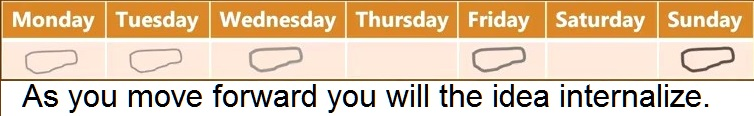
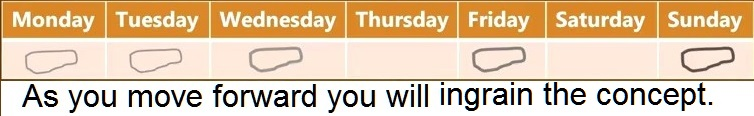
spaced repetition final edit

Changed region(s): [[0.5796, 0.6983, 0.9456, 0.9569]]

diff --git a/_posts/2016-09-06-spaced-repetition.md b/_posts/2016-09-06-spaced-repetition.md
@@ -8,15 +8,18 @@ tags:
   - Learning-Style
 ---
 
-Everybody is learning something fresh everyday. The moment that we realize something is the pleasant "ahha" instant that we succeed to connect the dots and assimilate the concept. Our careless mind believes that understanding will last forever, although the in next couple of days the idea is already stolen by our brain zombies (zombie is a term coined in Learn How to Learn course). The more time interval between the review of the concept the more susceptible to completely forget it. This incur loss of our time, energy and ultimately efficiency. 
+Everybody is learning something fresh everyday. The moment that we realize something is the pleasant "ahha" instant that we succeed to connect the dots and assimilate the concept. Our careless mind believes that understanding will last forever, although in the next couple of days the idea is already stolen by our brain zombies (zombie is a term coined in Learn How to Learn course). The more time interval between the review of the concept the more susceptible to completely forget it. This incur loss of our time, energy and ultimately efficiency. 
 
 ## Spaced Repetition
-Intuitively people may think they will ingrain and internalize the concept by just repeatedly reading the text at the same time. However our brain doesn't work like this. In this post I will describe a learning technique called "spaced repetition"; a scientificly proved technique to send information from our short-term memory to the every lasting long-term memory. The notion of spaced repetition tells to incrementally increase the time between reviews of the concept. For example see this image from [Learn How to Learn online course](https://www.coursera.org/learn/learning-how-to-learn/):
+Intuitively people may think they will ingrain and internalize the concept by just repeatedly reading the text in the same session. However our brain doesn't function in this manner. In this post I will describe a learning technique called "spaced repetition"; a scientific proven technique to send information from our short-term memory to the ever lasting long-term memory. The notion of spaced repetition tells to incrementally increase the time between reviews of the concept. For example see this image from [Learn How to Learn online course](https://www.coursera.org/learn/learning-how-to-learn/):
 
 ![spaced repetition]({{base_path}}/images/Rmarkdown_files/spaced_repetition.jpg)
 
-Up to now we know that this spaced repetition is in harmony with our brain system. The real question "how do we integrate it with our learning habits"?
-I spend most of my time to study on my thesis, programming and learning more literary English. When I learn a new notion related to my field of study, a new programming function or a English word I used to write it somewhere on my computer. The problem with this approach is: although I promise to myself to review the material, I won't. 
+Up to now we know that this spaced repetition is in harmony with our brain system. The real question would be: 
+
+"how do we integrate it with our learning habits"?
+
+I spend most of my time to study on my thesis, programming and learning more literary English. When I learn a new notion related to my field of study, a new programming function or a English word I used to write it somewhere on my computer. The problem with this approach is: although I promised myself to review the material, I would not. 
 
 ## Anki
 
